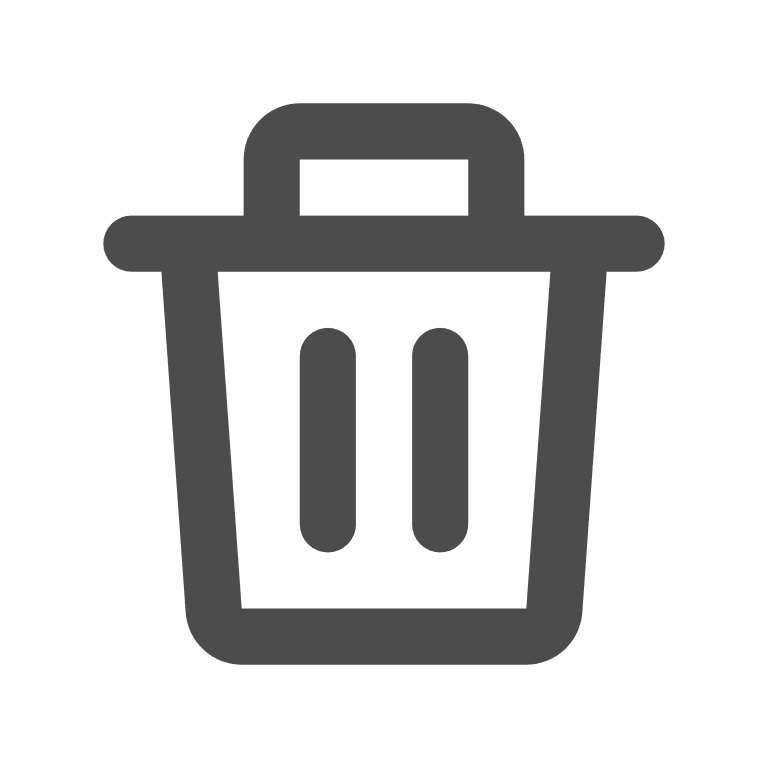
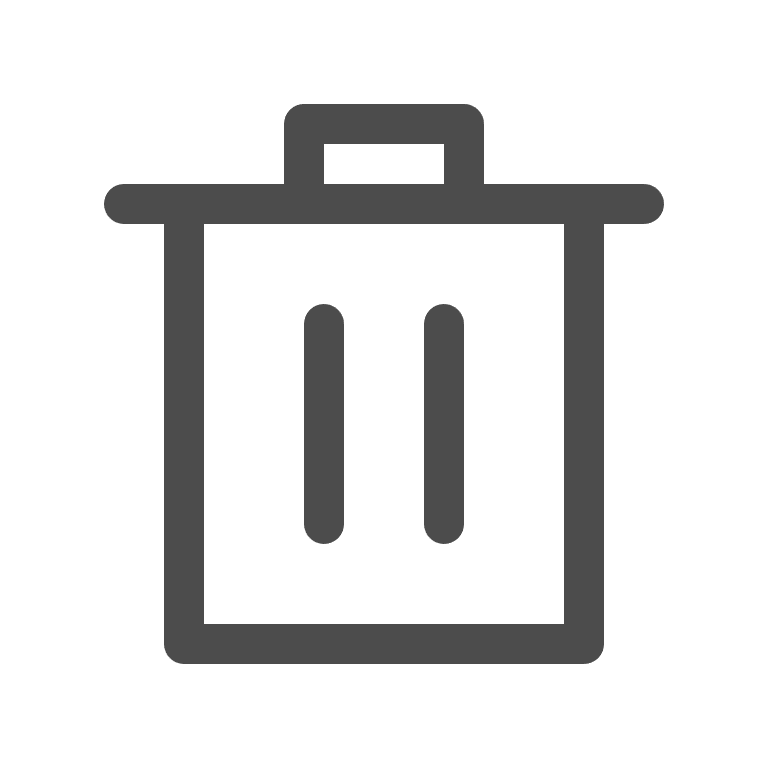
Removed obsolete styles, fixed styles for best visibility, added extra menu

Changed region(s): [[0.125, 0.125, 0.875, 0.875]]

diff --git a/js/Container.js b/js/Container.js
@@ -1,33 +1,51 @@
 // ============================================================
 // CONTAINER
 // Represents one draggable/focusable "object" box built from the
-// #container-template in layout.html: its DOM, its focus button, and
-// its double-click-to-rename behavior. Naming/conflict logic itself
+// #container-template in layout.html: its DOM, its focus/delete
+// buttons (with their hover tooltips), and its double-click-to-rename
+// behavior. Naming/rename-conflict/delete-confirmation logic itself
 // lives in ContainerRegistry.js — this class just asks for it.
 // ============================================================
+
+import { HoverPopover } from './HoverPopover.js';
 
 export class Container {
     /**
      * @param {string} name - desired name (registry will dedupe it)
      * @param {import('./ContainerRegistry.js').ContainerRegistry} registry
      * @param {(containerElement: HTMLElement) => void} onFocusRequest - called when the focus button is clicked
+     * @param {(containerElement: HTMLElement) => void} onDeleteRequest - called after the delete confirmation modal is accepted
      */
-    constructor(name, registry, onFocusRequest) {
+    constructor(name, registry, onFocusRequest, onDeleteRequest) {
         this.registry = registry;
         this.name = registry.getUniqueName(name);
-        this.element = this._createDOM(onFocusRequest);
+        this.element = this._createDOM(onFocusRequest, onDeleteRequest);
     }
 
-    _createDOM(onFocusRequest) {
+    _createDOM(onFocusRequest, onDeleteRequest) {
         const template = document.getElementById('container-template');
         const clone = template.content.cloneNode(true);
         const containerEl = clone.querySelector('.container');
         const titleEl = clone.querySelector('.container-title');
         const focusBtn = containerEl.querySelector('.focus-btn');
+        const deleteBtn = containerEl.querySelector('.delete-btn');
 
         titleEl.textContent = this.name;
 
         focusBtn.addEventListener('click', () => onFocusRequest(containerEl));
+
+        // Confirmation happens in the registry (it owns registry state);
+        // onDeleteRequest only runs if the user actually confirms, and is
+        // where the DOM/view-state side of deletion happens (ViewManager).
+        deleteBtn.addEventListener('click', () => {
+            this.registry.confirmDelete(this, () => onDeleteRequest(containerEl));
+        });
+
+        // Small hover tooltips, same component the sidebar icons use —
+        // passed the element directly since a template-cloned icon has no
+        // id to target by. Automatically hidden on mobile (see HoverPopover.js).
+        new HoverPopover(focusBtn, 'Focus', null);
+        new HoverPopover(deleteBtn, 'Delete', null);
 
         // Double-click the title to rename inline
         titleEl.addEventListener('dblclick', () => this._beginRename(titleEl));

diff --git a/layout.html b/layout.html
@@ -18,7 +18,7 @@
     <link rel="stylesheet" href="css/settings.css">
     <link rel="stylesheet" href="css/popover.css">
     <link rel="stylesheet" href="css/buttons.css">
-    <link rel="stylesheet" href="css/responsive.css">
+    <link rel="stylesheet" href="css/mobile.css">
 </head>
 <body>
     <div class="layout" id="layout">
@@ -27,7 +27,7 @@
             <img class="icon" src="images/logo.png" id="logo" alt="">
             <img class="icon" src="images/new.png" id="btn-new" alt="">
             <img class="icon" src="images/list.png" id="btn-list" alt="">
-            <img class="icon" src="images/settings.png" id="btn-settings" alt="">
+            <img class="icon" src="images/profile.png" id="btn-settings" alt="">
         </div>
 
         <!-- Main Content Area -->
@@ -85,8 +85,8 @@
             <div class="container-header">
                 <span class="container-title">Container</span>
                 <div class="header-actions">
-                    <img class="header-icon focus-btn" src="images/focus.png" alt="">
-                    <img class="header-icon delete-btn" src="images/delete.png" alt="">
+                    <img class="icon focus-btn" src="images/focus.png" alt="">
+                    <img class="icon delete-btn" src="images/delete.png" alt="">
                 </div>
             </div>
             <div class="container-body">

diff --git a/css/containers-cards.css b/css/containers-cards.css
@@ -79,24 +79,6 @@
     flex-shrink: 0;
 }
 
-/* Header icon styling — used for the focus and delete icons in every container-header */
-.header-icon {
-    width: 2rem;
-    /* Expanded slightly to match sidebar icons */
-    height: 2rem;
-    padding: 0.25rem;
-    /* Added padding so the hover background frames the icon */
-    border-radius: 0.5rem;
-    cursor: pointer;
-    opacity: 0.7;
-    transition: opacity 0.2s, background-color 0.2s ease, filter 0.3s ease;
-}
-
-.header-icon:hover {
-    opacity: 1;
-    background-color: var(--icon-hover-bg);
-}
-
-[data-theme="dark"] .header-icon {
-    filter: invert(1);
+.header-actions .icon:hover {
+    background-color: var(--card-header-icon-hover-bg);
 }

diff --git a/css/variables.css b/css/variables.css
@@ -13,8 +13,9 @@
     --card-bg: #fdfdfd;
     --header-bg: #f4f5f7;
     --border-color: #dcdfe4;
-    --icon-img-hover: #d3d3d3;
-    --icon-hover-bg: #e2e5e9;
+    --icon-hover-bg: #d3d3d3;
+    --text-hover-bg: #e2e5e9;
+    --card-header-icon-hover-bg: #d3d3d3;
     --divider-color: #cdd2d8;
     --text-color: #334155;
     --accent-color: #5a8ddf;
@@ -30,8 +31,9 @@
     --card-bg: #1e1e1e;
     --header-bg: #2d2d2d;
     --border-color: #404040;
-    --icon-img-hover: #d3d3d3;
-    --icon-hover-bg: #404040;
+    --icon-hover-bg: #cbcbcb;
+    --text-hover-bg: #404040;
+    --card-header-icon-hover-bg: #ededed;
     --divider-color: #666666;
     --text-color: #e0e0e0;
     --accent-color: #3b82f6;

diff --git a/css/modal.css b/css/modal.css
@@ -101,7 +101,6 @@
     cursor: pointer;
     font-size: 1.5rem;
     line-height: 1;
-    opacity: 0.5;
     transition: opacity 0.2s, background-color 0.2s;
     /* Added dimensions and centering to make it a perfect circle */
     width: 2rem;
@@ -109,12 +108,11 @@
     display: flex;
     align-items: center;
     justify-content: center;
-    border-radius: 50%;
+    border-radius: 0.5rem;
 }
 
 .modal-close:hover {
-    opacity: 1;
-    background-color: var(--icon-img-hover)
+    background-color: var(--text-hover-bg)
 }
 
 /* The container for the inner content of a generic modal (unused directly by settings, but kept for future reuse) */

diff --git a/css/settings.css b/css/settings.css
@@ -38,13 +38,13 @@
 }
 
 .settings-tab:hover {
-    background-color: var(--icon-hover-bg);
+    background-color: var(--text-hover-bg);
     opacity: 1;
 }
 
 /* Highlights the currently selected tab and adds a blue indicator line on the left */
 .settings-tab.active {
-    background-color: var(--icon-hover-bg);
+    background-color: var(--text-hover-bg);
     opacity: 1;
     font-weight: 600;
     border-left: 0.2rem solid var(--accent-color);

diff --git a/css/mobile.css b/css/mobile.css
@@ -33,12 +33,11 @@
     }
 
     /*
-       Shrinks every .icon (sidebar icons) AND .header-icon (the
+       Shrinks every .icon (sidebar icons) (the
        focus/delete icons inside .container-header) so they still fit
        comfortably inside the halved 1.5rem sidebar/header heights below.
     */
-    .icon,
-    .header-icon {
+    .icon {
         width: 1.2rem;
         height: 1.2rem;
         padding: 0.15rem;

diff --git a/css/sidebar.css b/css/sidebar.css
@@ -35,6 +35,13 @@
 
 /* Hover state for all interactive icons */
 .icon:hover {
-    background-color: var(--icon-img-hover);
+    background-color: var(--icon-hover-bg);
     cursor: pointer;
 }
+
+/*
+.header-actions .icon:hover {
+    background-color: var(--bg-color);
+}
+This rule is defined in containers-cards.css
+*/ 

diff --git a/css/buttons.css b/css/buttons.css
@@ -43,7 +43,7 @@
 }
 
 .btn-secondary:hover {
-    background: var(--icon-hover-bg);
+    background: var(--text-hover-bg);
 }
 
 .btn-danger {

diff --git a/css/popover.css b/css/popover.css
@@ -64,5 +64,5 @@
 }
 
 .popover-btn:hover {
-    background: var(--icon-hover-bg);
+    background: var(--text-hover-bg);
 }
